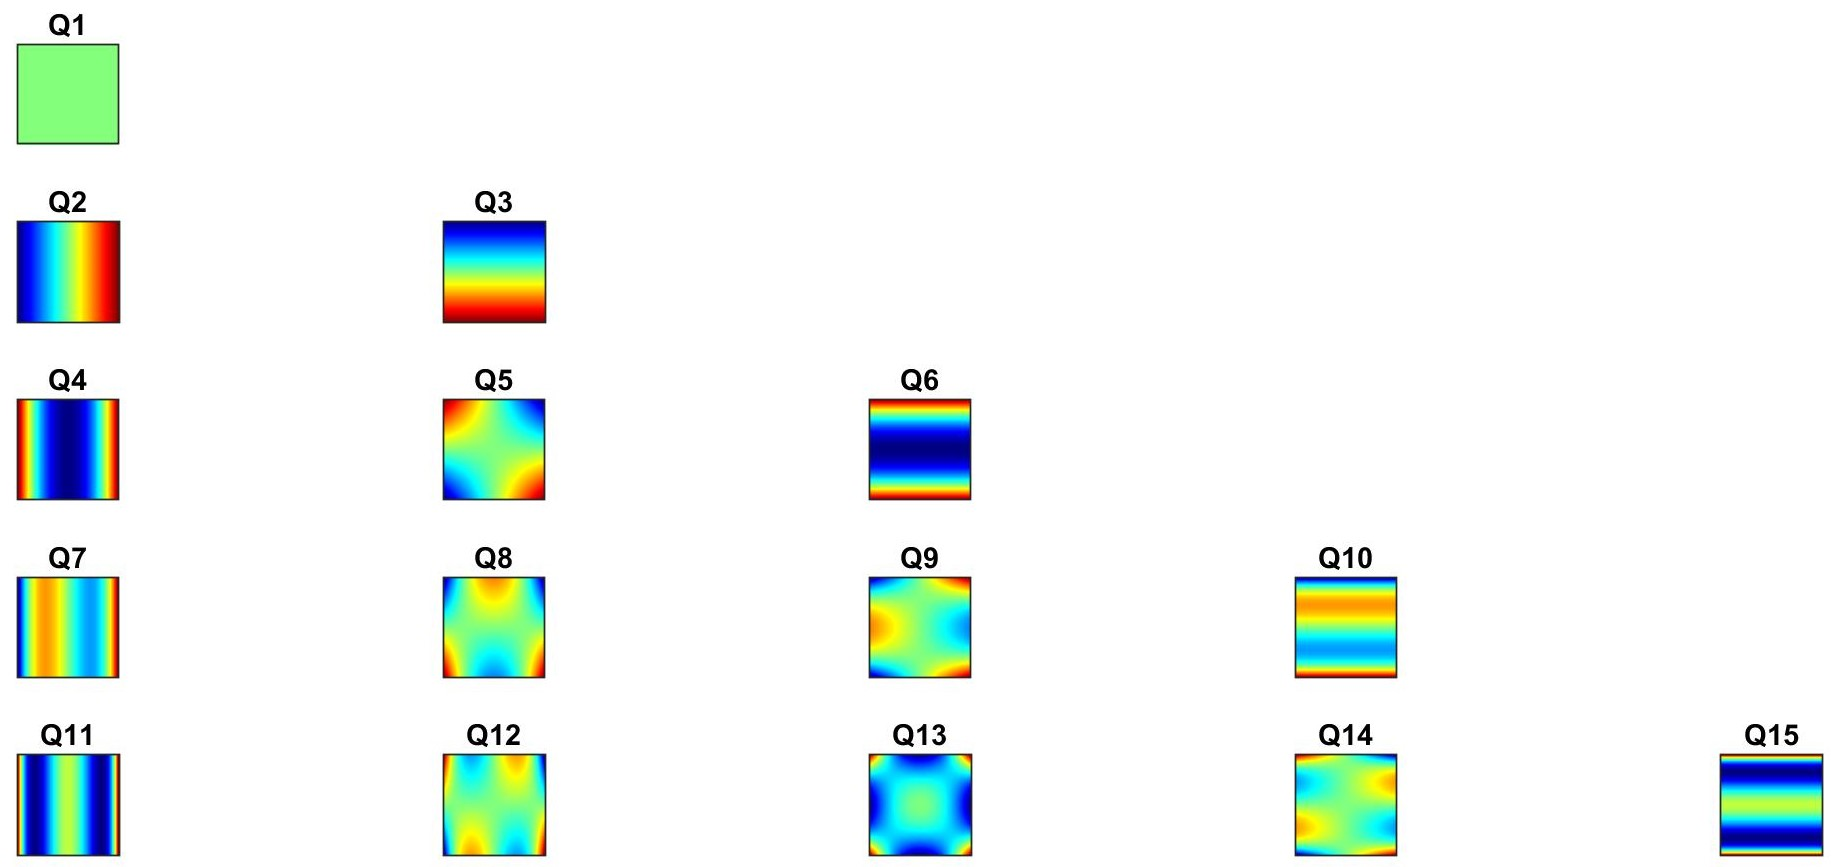
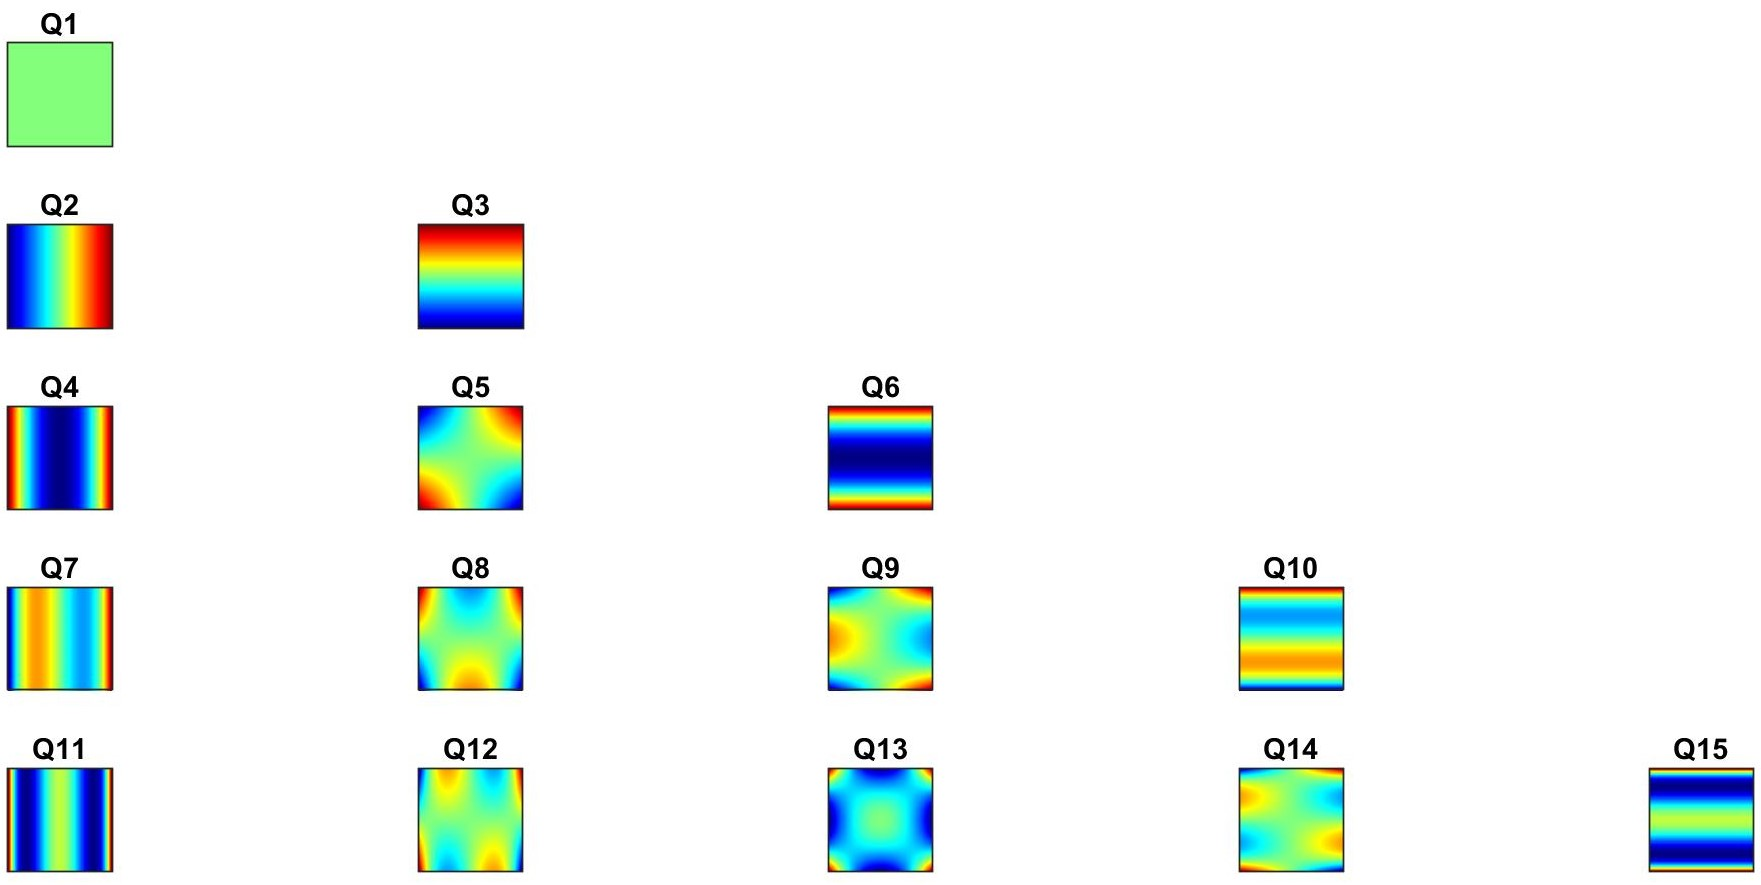
unified origin

diff --git a/matlab/step_02_legendre_gen_n4.m b/matlab/step_02_legendre_gen_n4.m
@@ -16,6 +16,6 @@ cols = max(b);
 colormap jet;
 for i = 1: 15
     subplot(cols, rows, rows * (a(i) - 1) + b(i));
-    imagesc(Z3(:, :, i)); axis image; set(gca, 'xtick', [], 'ytick', []);
+    imagesc(Z3(:, :, i)); axis image xy; set(gca, 'xtick', [], 'ytick', []);
     title(['Q' num2str(i)]);
 end

diff --git a/matlab/functions/legendre_xy_jc.m b/matlab/functions/legendre_xy_jc.m
@@ -25,7 +25,7 @@ a = floor((1 + sqrt(1 + 8*(J-1)))*0.5);
 b = (J-1) - 0.5*(a.*(a-1)) + 1;
 
 % Get n, m from a & b
-n= a - b;
+n = a - b;
 m = b - 1;
 
 % Calculate the Legendre polynominals with thier coefficients, as well as
